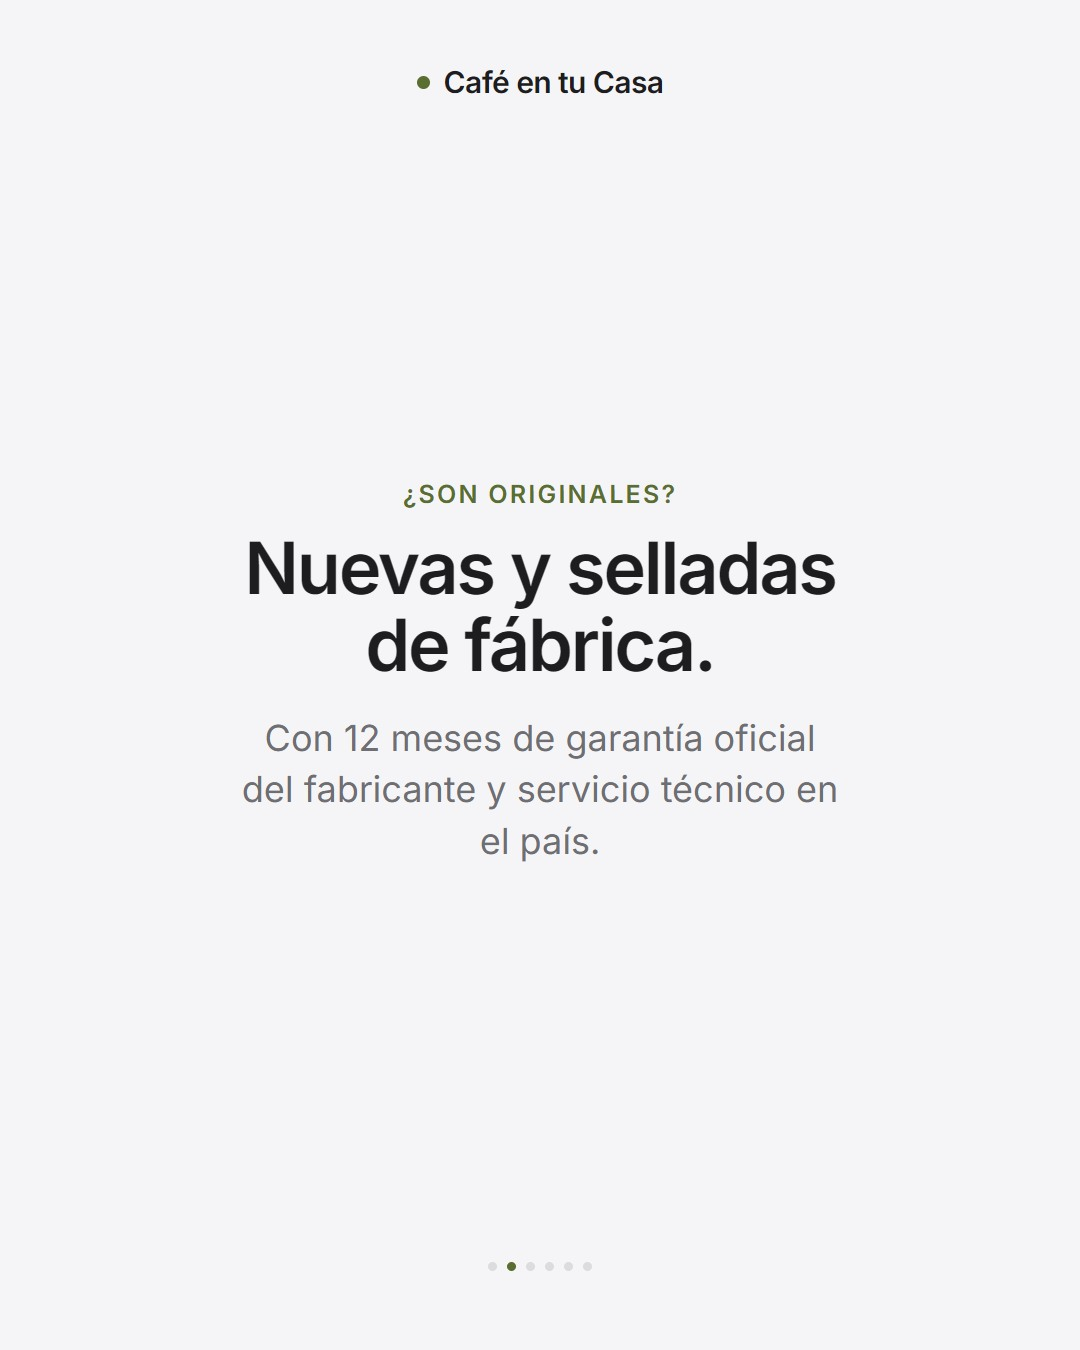
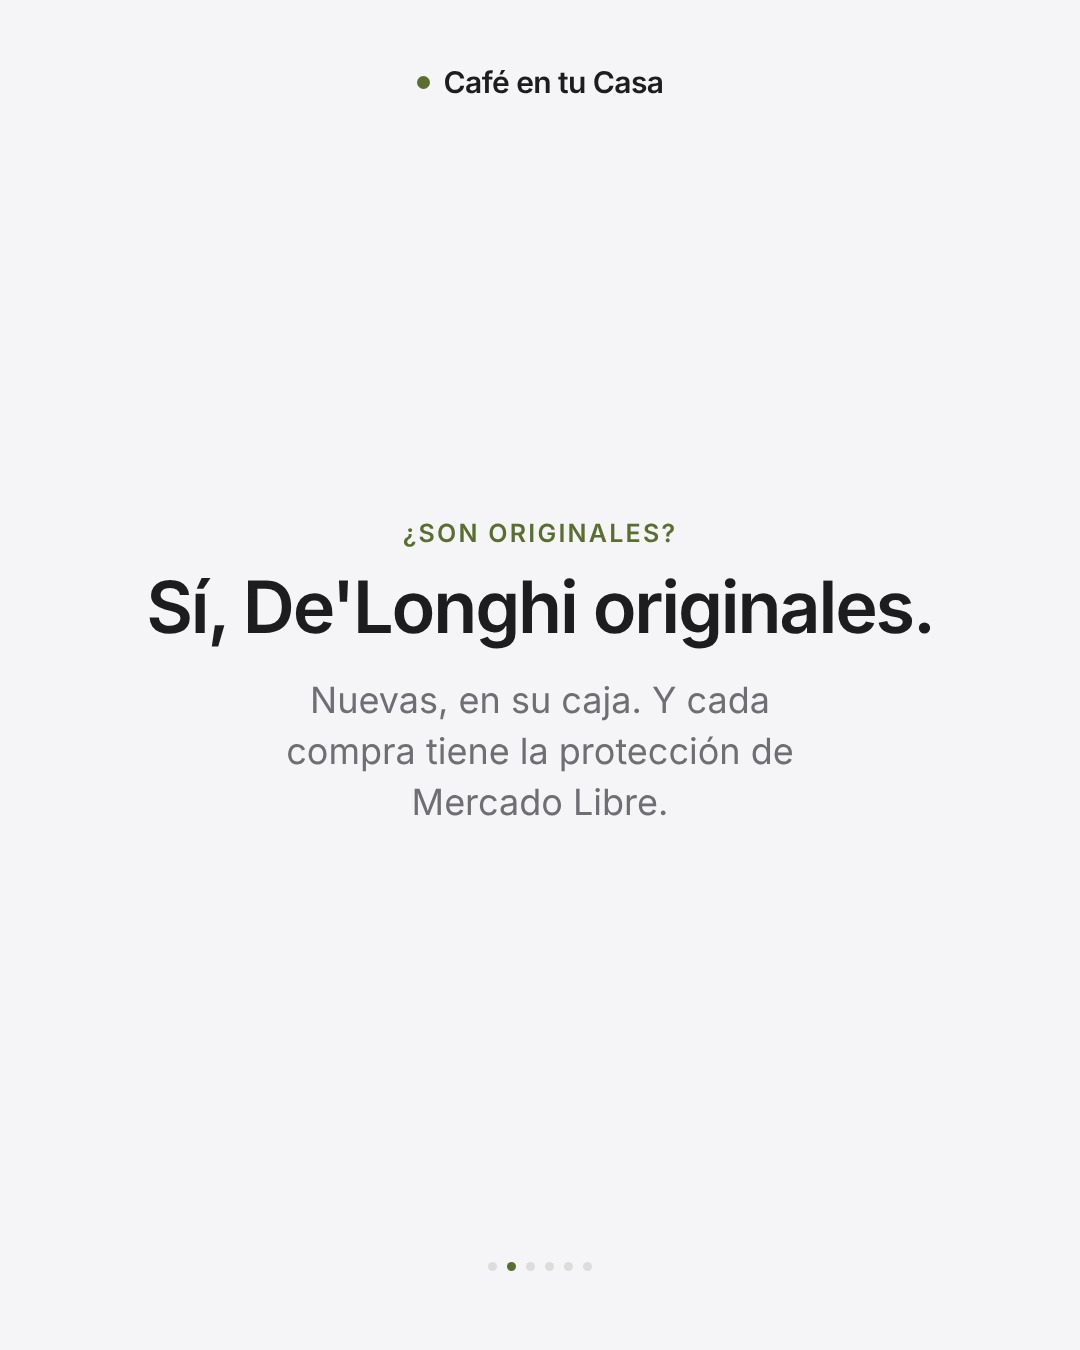
Carrusel de preguntas frecuentes sin «selladas», «garantía oficial» ni «30 días»: rige la política de Mercado Libre
Claude-Session: https://claude.ai/code/session_01F2nm3mdCtarTeJFxmNKzSw

Changed region(s): [[0.1222, 0.3422, 0.8556, 0.6533]]

diff --git a/instagram/contenido.js b/instagram/contenido.js
@@ -364,17 +364,17 @@ const PIEZAS = [
     titulo: 'Lo que siempre nos preguntan',
     caption:
       'Lo que siempre nos preguntan, respondido. 👇\n\n' +
-      '¿Son originales? Sí: nuevas, selladas de fábrica y con garantía oficial.\n' +
+      '¿Son originales? Sí: cafeteras De\'Longhi nuevas, en su caja.\n' +
       '¿Envían a todo el país? Sí, gratis y con seguimiento.\n' +
       '¿Cuánto tarda? 24 a 72 h en AMBA y hasta 5 días hábiles en el interior.\n' +
-      '¿Puedo devolverla? Tenés 30 días, sin costo.\n\n' +
+      '¿Puedo devolverla? Sí, según la política de devoluciones de Mercado Libre.\n\n' +
       '¿Te quedó otra duda? ' + CIERRE,
     placas: [
       { t: 'portada', ep: 'Preguntas frecuentes', h: 'Lo que siempre nos preguntan.', sub: 'Respondido en cinco placas.' },
-      { t: 'texto', tono: 'gris', ep: '¿Son originales?', h: 'Nuevas y selladas de fábrica.', p: `Con ${TIENDA.garantiaMeses} meses de garantía oficial del fabricante y servicio técnico en el país.` },
+      { t: 'texto', tono: 'gris', ep: '¿Son originales?', h: 'Sí, De\'Longhi originales.', p: 'Nuevas, en su caja. Y cada compra tiene la protección de Mercado Libre.' },
       { t: 'texto', ep: '¿Envían a todo el país?', h: 'Sí, y el envío es gratis.', p: 'Despachamos por Mercado Envíos y te pasamos el número de seguimiento.' },
       { t: 'texto', tono: 'gris', ep: '¿Cuánto tarda?', h: '24 a 72 h en AMBA.', p: 'Hasta 5 días hábiles en el interior. Sale el mismo día si el pago se acredita antes de las 15 h.' },
-      { t: 'texto', ep: '¿Y si no me convence?', h: '30 días para devolverla.', p: 'Sin costo, siempre que esté en las mismas condiciones en las que llegó.' },
+      { t: 'texto', ep: '¿Y si no me convence?', h: 'Podés devolverla.', p: 'Según la política de devoluciones de Mercado Libre. Ante cualquier duda, escribinos antes.' },
       { t: 'cta', tono: 'oscuro', ep: '¿Otra duda?', h: 'Escribinos.', sub: 'Contestamos en el día.', boton: 'WhatsApp · link en la bio' }
     ]
   },
